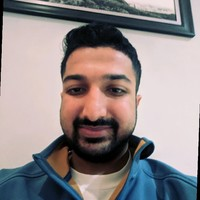
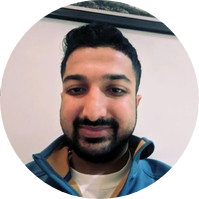
css competible CV

diff --git a/index.html b/index.html
@@ -1,10 +1,15 @@
 <!DOCTYPE html>
 <html lang="en" dir="ltr">
+
   <head>
     <meta charset="utf-8">
     <title>✒ Muhammad Awais Personal Website</title>
-  </head>
-  <body>
+    <link rel="stylesheet" href="css/styles.css">
+
+</head>
+
+
+  <body >
     <table cellspacing = "20">
       <tr>
         <td><img src="Muhammad.jpeg" alt="Muhammad Profile Image"></td>
@@ -17,12 +22,17 @@
 
 <hr>
 
+
+
 <h3>Education back ground </h3>
 <ul>
   <li>Completed Professional IT year from <strong><a href="https://www.deakin.edu.au/">William Light College</a></strong></li>
   <li>Completed Bachelor of Computer Science from <strong><a href="https://www.deakin.edu.au/">Deakin University</a></strong></li>
 </ul>
 <hr>
+
+
+
 <h3>Work experience</h3>
 <table cellspacing = "10">
   <thead>
@@ -37,6 +47,9 @@
   </tr>
 </table>
 <hr>
+
+
+
 <h3>Skills</h3>
 <table cellspacing="10">
   <tr>

diff --git a/my-hobbies.html b/my-hobbies.html
@@ -3,6 +3,7 @@
   <head>
     <meta charset="utf-8">
     <title>My Hobbies</title>
+    <link rel="stylesheet" href="css/styles.css">
   </head>
   <body>
     <h1>My Hobbies</h1>

diff --git a/Contact-me.html b/Contact-me.html
@@ -3,6 +3,7 @@
   <head>
     <meta charset="utf-8">
     <title>Contact Me</title>
+    <link rel="stylesheet" href="css/styles.css">
   </head>
   <body>
     <h1>
